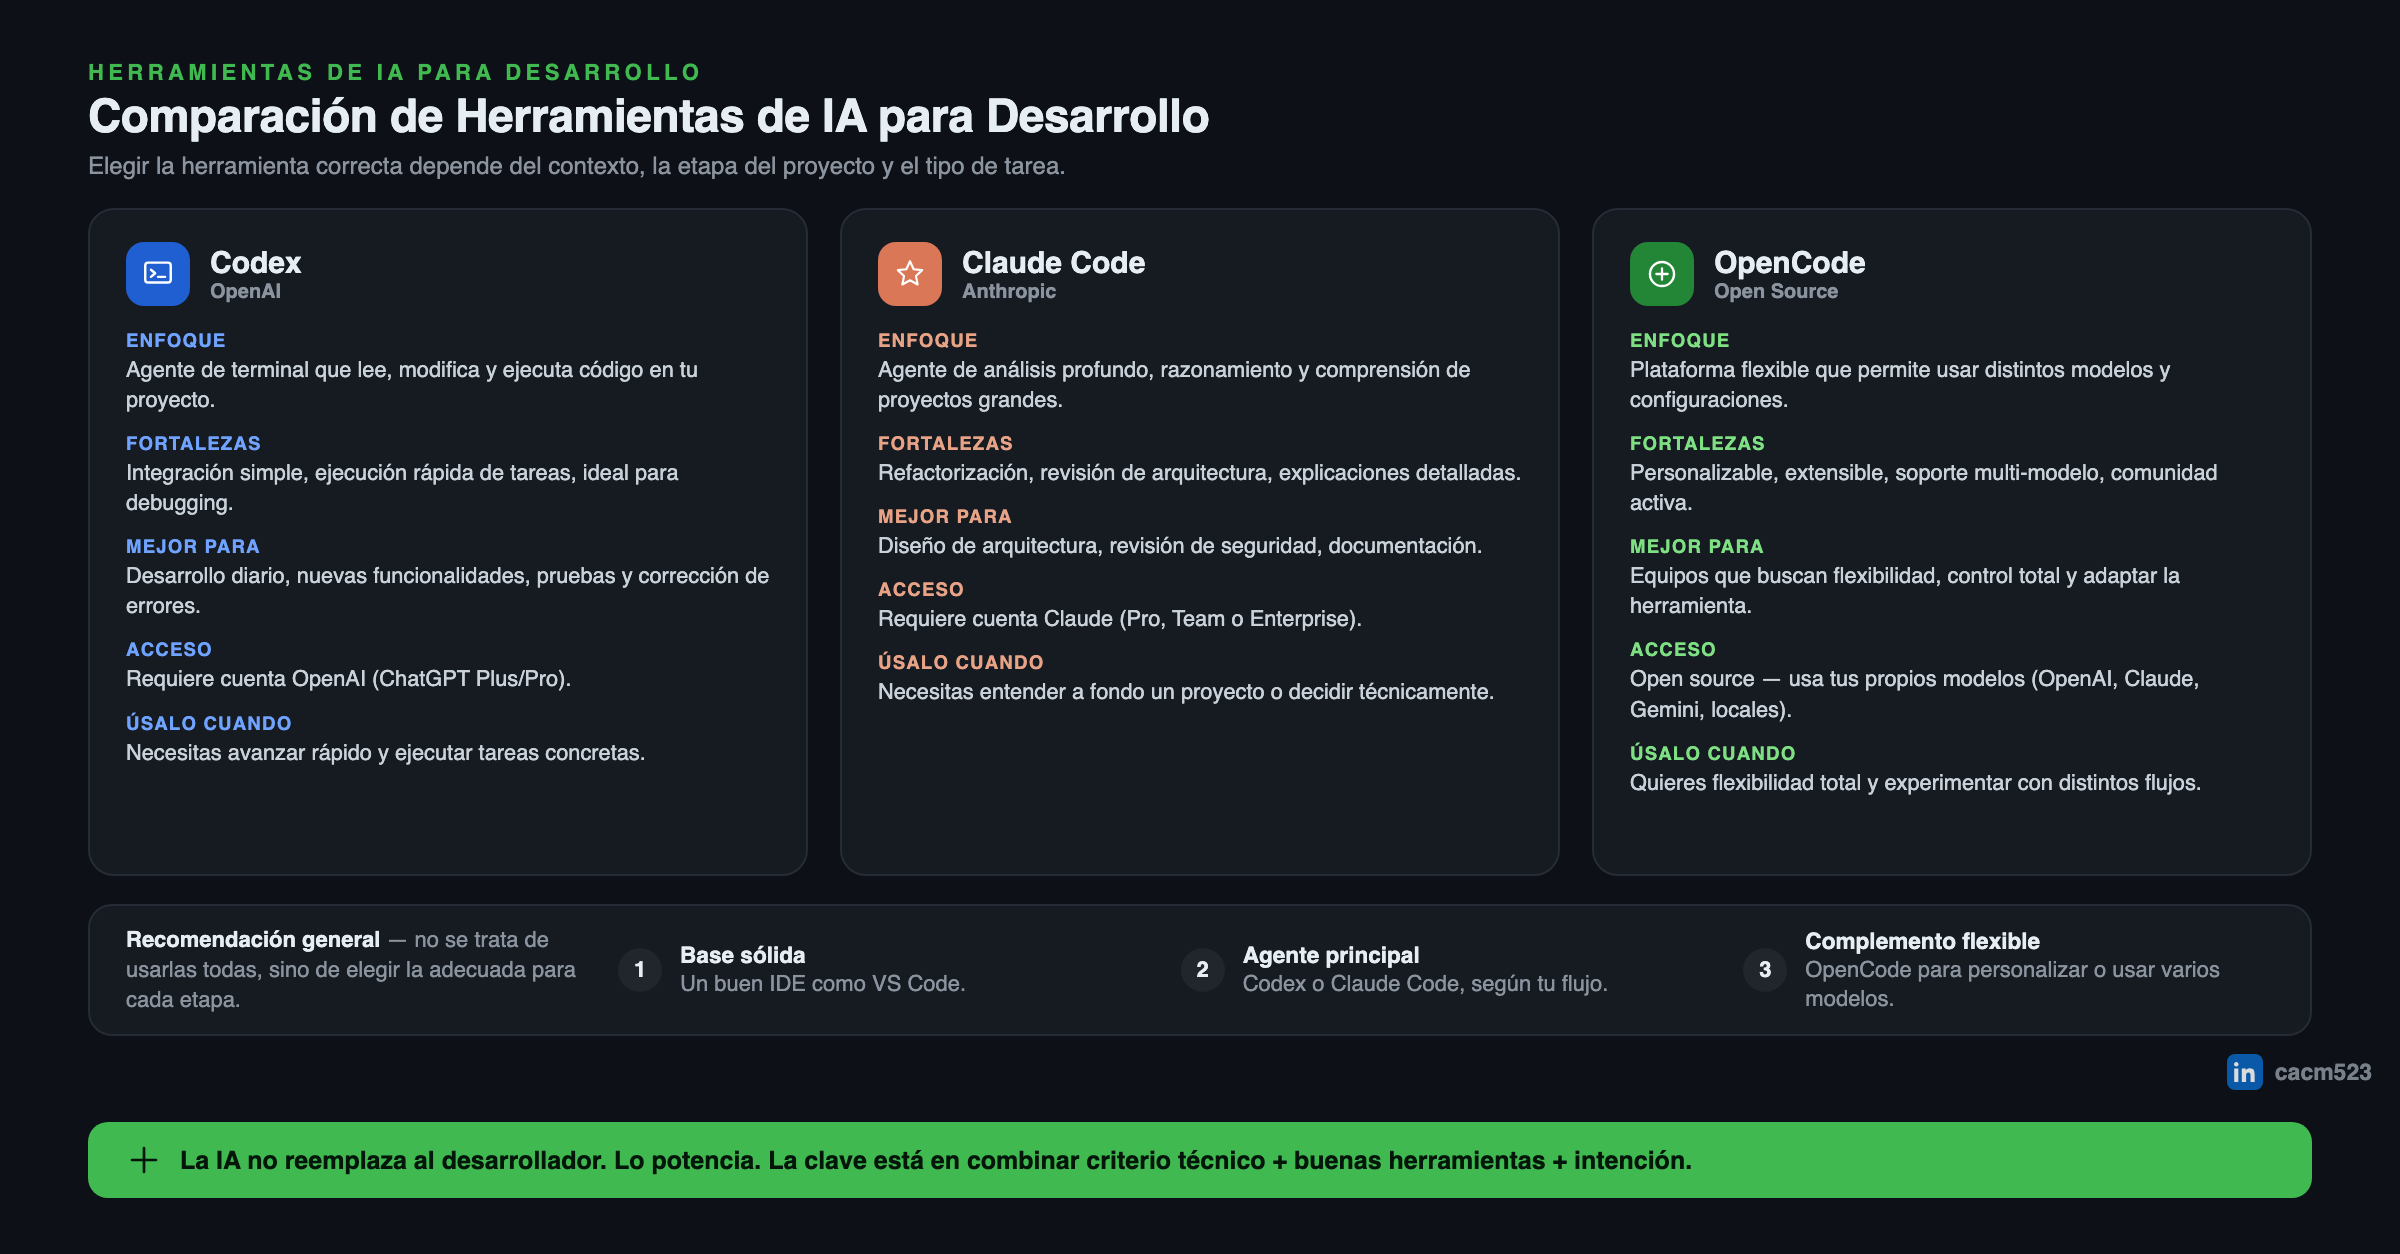
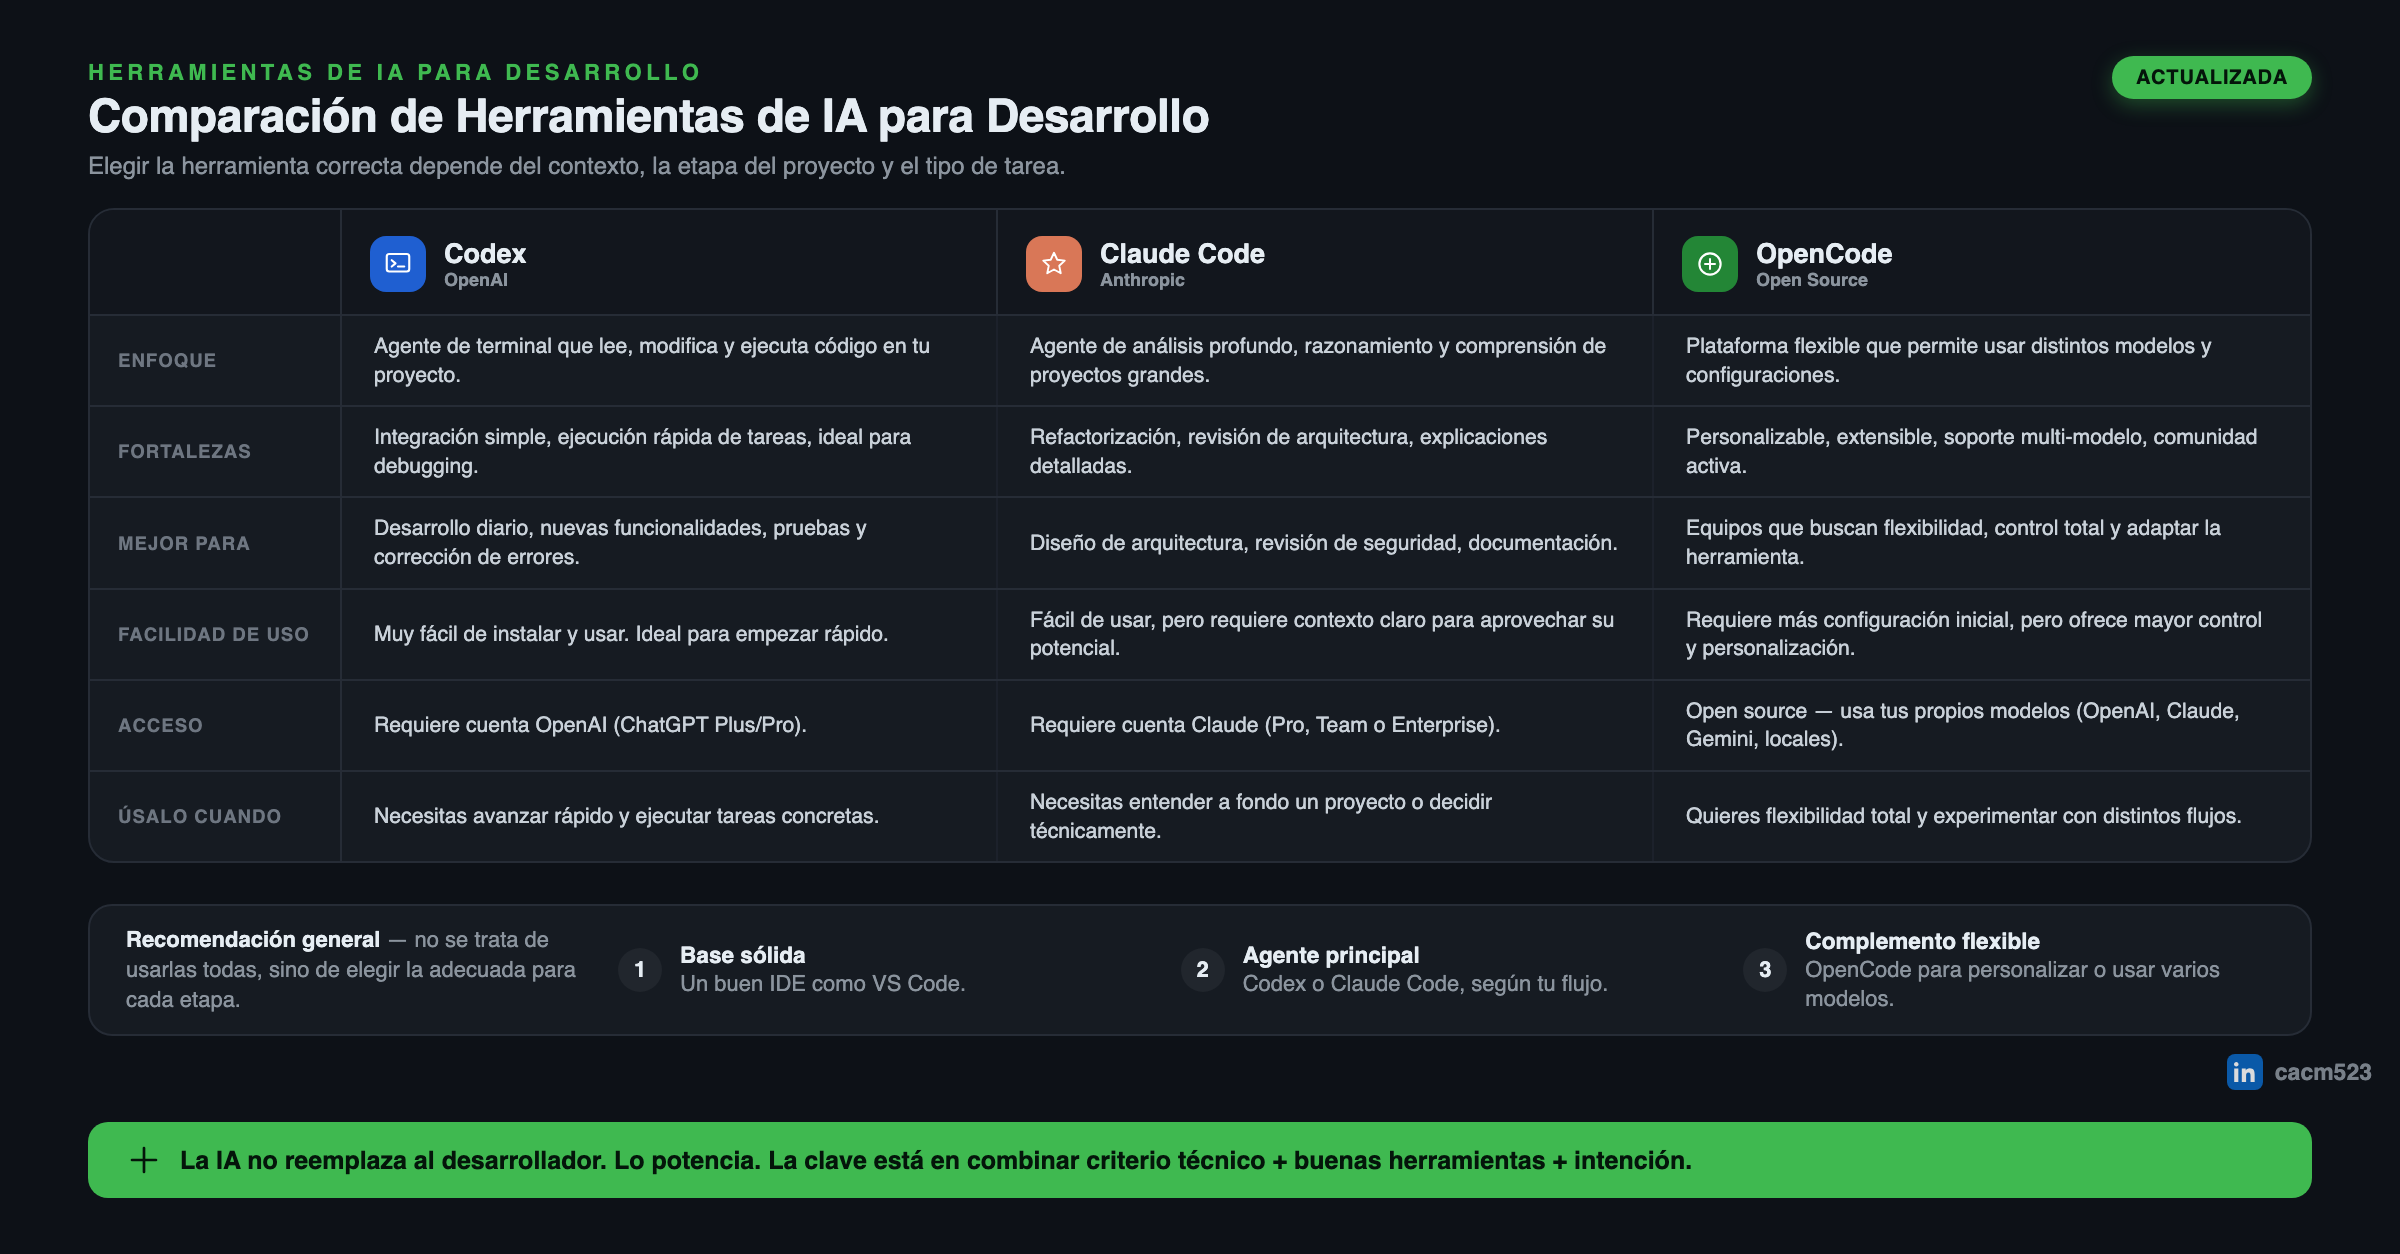
Reemplaza tarjetas repetidas por una matriz real en comparación de IA
Aplica la misma lógica usada en sql-joins: en vez de 3 tarjetas que
repetían las mismas 5 etiquetas (Enfoque, Fortalezas, Mejor para,
Acceso, Úsalo cuando) cada una, ahora es una única matriz con una
columna de etiquetas compartida y 3 columnas de datos (Codex, Claude
Code, OpenCode) — permite comparar un mismo aspecto de un vistazo en
vez de leer tarjeta por tarjeta.

De paso se restaura la fila "Facilidad de uso" que el prompt.md
original ya pedía (6 filas x 3 columnas) pero que la primera
construcción había omitido, dejando solo 5. Se agrega la insignia
"Actualizada" y se archiva la versión anterior en
Construidos/Comparacion_Herramientas_IA_Desarrollo/Archivadas/herramientas-desarrollo-ia-2026-07-21/.

Changed region(s): [[0.0312, 0.1866, 0.9375, 0.6531], [0.4375, 0.622, 0.625, 0.6842], [0.875, 0.0311, 0.9688, 0.0933]]

diff --git a/Construidos/Comparacion_Herramientas_IA_Desarrollo/Archivadas/herramientas-desarrollo-ia-2026-07-21/herramientas-desarrollo-ia.html b/Construidos/Comparacion_Herramientas_IA_Desarrollo/Archivadas/herramientas-desarrollo-ia-2026-07-21/herramientas-desarrollo-ia.html
@@ -1,0 +1,118 @@
+<!DOCTYPE html>
+<html lang="es">
+<head>
+<meta charset="UTF-8">
+<title>Comparación de Herramientas de IA para Desarrollo</title>
+<style>
+  * { margin:0; padding:0; box-sizing:border-box; }
+  body { width:1264px; height:691px; padding:32px; background:#05070A; font-family:-apple-system,"SF Pro Display","Segoe UI",Inter,Helvetica,Arial,sans-serif; }
+  .canvas { position:relative; width:1200px; height:627px; background:#0D1117; overflow:hidden; }
+
+  .eyebrow { position:absolute; top:30px; left:44px; font-size:11px; font-weight:700; letter-spacing:2.2px; color:#3FB950; text-transform:uppercase; }
+  .title { position:absolute; top:45px; left:44px; font-size:23px; font-weight:800; color:#E6EDF3; letter-spacing:-0.2px; }
+  .subtitle { position:absolute; top:76px; left:44px; width:1112px; font-size:12px; color:#8B949E; }
+
+  .cards { position:absolute; top:104px; left:44px; width:1112px; height:334px; display:flex; gap:16px; }
+  .card { flex:1; border-radius:13px; background:#161B22; border:1px solid #262C36; padding:16px 18px; display:flex; flex-direction:column; }
+  .chead { display:flex; align-items:center; gap:10px; }
+  .badge { width:32px; height:32px; border-radius:9px; display:flex; align-items:center; justify-content:center; flex-shrink:0; }
+  .badge svg { width:17px; height:17px; }
+  .cname { font-size:15px; font-weight:800; color:#E6EDF3; }
+  .cvendor { font-size:10px; color:#8B949E; font-weight:600; }
+
+  .rows { margin-top:12px; display:flex; flex-direction:column; gap:9px; }
+  .r .lbl { font-size:9.3px; font-weight:800; text-transform:uppercase; letter-spacing:0.6px; }
+  .r .val { margin-top:2px; font-size:10.9px; line-height:1.38; color:#C9D1D9; }
+
+  .reco { position:absolute; top:452px; left:44px; width:1112px; height:66px; border-radius:12px; background:#161B22; border:1px solid #262C36; display:flex; align-items:center; padding:0 18px; gap:16px; }
+  .reco-lead { width:230px; flex-shrink:0; font-size:11px; color:#8B949E; line-height:1.35; }
+  .reco-lead b { color:#E6EDF3; }
+  .reco-step { flex:1; display:flex; align-items:center; gap:9px; }
+  .reco-step .n { width:22px; height:22px; border-radius:50%; background:#21262D; color:#E6EDF3; font-size:11px; font-weight:800; display:flex; align-items:center; justify-content:center; flex-shrink:0; }
+  .reco-step .t { font-size:11px; line-height:1.3; }
+  .reco-step .t b { display:block; color:#E6EDF3; font-size:11.3px; }
+  .reco-step .t span { color:#8B949E; }
+
+  .closing { position:absolute; left:44px; right:44px; bottom:28px; background:#3FB950; border-radius:10px; padding:11px 20px; display:flex; align-items:center; gap:10px; }
+  .closing svg { width:16px; height:16px; flex-shrink:0; }
+  .closing p { color:#04150A; font-size:12.5px; font-weight:700; }
+
+  .signature { position:absolute; right:14px; bottom:82px; display:flex; align-items:center; gap:6px; opacity:0.85; }
+  .signature .li { width:18px; height:18px; border-radius:4px; background:#0A66C2; display:flex; align-items:center; justify-content:center; }
+  .signature .li svg { width:11px; height:11px; }
+  .signature span { font-size:11.5px; color:#8B949E; font-weight:600; }
+</style>
+</head>
+<body>
+<div class="canvas">
+
+  <div class="eyebrow">Herramientas de IA para Desarrollo</div>
+  <div class="title">Comparación de Herramientas de IA para Desarrollo</div>
+  <div class="subtitle">Elegir la herramienta correcta depende del contexto, la etapa del proyecto y el tipo de tarea.</div>
+
+  <div class="cards">
+
+    <div class="card">
+      <div class="chead">
+        <div class="badge" style="background:#1F5FD1;"><svg viewBox="0 0 24 24" fill="none"><rect x="3" y="4" width="18" height="14" rx="2" stroke="white" stroke-width="1.7"/><path d="M7 9l3 2.5L7 14M12 14h5" stroke="white" stroke-width="1.7" stroke-linecap="round" stroke-linejoin="round"/></svg></div>
+        <div><div class="cname">Codex</div><div class="cvendor">OpenAI</div></div>
+      </div>
+      <div class="rows">
+        <div class="r"><div class="lbl" style="color:#6FA3FF;">Enfoque</div><div class="val">Agente de terminal que lee, modifica y ejecuta código en tu proyecto.</div></div>
+        <div class="r"><div class="lbl" style="color:#6FA3FF;">Fortalezas</div><div class="val">Integración simple, ejecución rápida de tareas, ideal para debugging.</div></div>
+        <div class="r"><div class="lbl" style="color:#6FA3FF;">Mejor para</div><div class="val">Desarrollo diario, nuevas funcionalidades, pruebas y corrección de errores.</div></div>
+        <div class="r"><div class="lbl" style="color:#6FA3FF;">Acceso</div><div class="val">Requiere cuenta OpenAI (ChatGPT Plus/Pro).</div></div>
+        <div class="r"><div class="lbl" style="color:#6FA3FF;">Úsalo cuando</div><div class="val">Necesitas avanzar rápido y ejecutar tareas concretas.</div></div>
+      </div>
+    </div>
+
+    <div class="card">
+      <div class="chead">
+        <div class="badge" style="background:#D97757;"><svg viewBox="0 0 24 24" fill="none"><path d="M12 3l2.6 5.6 6 .7-4.4 4.1 1.2 6-5.4-3-5.4 3 1.2-6L3.4 9.3l6-.7L12 3z" stroke="white" stroke-width="1.5" stroke-linejoin="round"/></svg></div>
+        <div><div class="cname">Claude Code</div><div class="cvendor">Anthropic</div></div>
+      </div>
+      <div class="rows">
+        <div class="r"><div class="lbl" style="color:#E8A386;">Enfoque</div><div class="val">Agente de análisis profundo, razonamiento y comprensión de proyectos grandes.</div></div>
+        <div class="r"><div class="lbl" style="color:#E8A386;">Fortalezas</div><div class="val">Refactorización, revisión de arquitectura, explicaciones detalladas.</div></div>
+        <div class="r"><div class="lbl" style="color:#E8A386;">Mejor para</div><div class="val">Diseño de arquitectura, revisión de seguridad, documentación.</div></div>
+        <div class="r"><div class="lbl" style="color:#E8A386;">Acceso</div><div class="val">Requiere cuenta Claude (Pro, Team o Enterprise).</div></div>
+        <div class="r"><div class="lbl" style="color:#E8A386;">Úsalo cuando</div><div class="val">Necesitas entender a fondo un proyecto o decidir técnicamente.</div></div>
+      </div>
+    </div>
+
+    <div class="card">
+      <div class="chead">
+        <div class="badge" style="background:#238636;"><svg viewBox="0 0 24 24" fill="none"><circle cx="12" cy="12" r="8.5" stroke="white" stroke-width="1.7"/><path d="M8 12h8M12 8v8" stroke="white" stroke-width="1.6" stroke-linecap="round"/></svg></div>
+        <div><div class="cname">OpenCode</div><div class="cvendor">Open Source</div></div>
+      </div>
+      <div class="rows">
+        <div class="r"><div class="lbl" style="color:#7EE083;">Enfoque</div><div class="val">Plataforma flexible que permite usar distintos modelos y configuraciones.</div></div>
+        <div class="r"><div class="lbl" style="color:#7EE083;">Fortalezas</div><div class="val">Personalizable, extensible, soporte multi-modelo, comunidad activa.</div></div>
+        <div class="r"><div class="lbl" style="color:#7EE083;">Mejor para</div><div class="val">Equipos que buscan flexibilidad, control total y adaptar la herramienta.</div></div>
+        <div class="r"><div class="lbl" style="color:#7EE083;">Acceso</div><div class="val">Open source — usa tus propios modelos (OpenAI, Claude, Gemini, locales).</div></div>
+        <div class="r"><div class="lbl" style="color:#7EE083;">Úsalo cuando</div><div class="val">Quieres flexibilidad total y experimentar con distintos flujos.</div></div>
+      </div>
+    </div>
+
+  </div>
+
+  <div class="reco">
+    <div class="reco-lead"><b>Recomendación general</b> — no se trata de usarlas todas, sino de elegir la adecuada para cada etapa.</div>
+    <div class="reco-step"><div class="n">1</div><div class="t"><b>Base sólida</b><span>Un buen IDE como VS Code.</span></div></div>
+    <div class="reco-step"><div class="n">2</div><div class="t"><b>Agente principal</b><span>Codex o Claude Code, según tu flujo.</span></div></div>
+    <div class="reco-step"><div class="n">3</div><div class="t"><b>Complemento flexible</b><span>OpenCode para personalizar o usar varios modelos.</span></div></div>
+  </div>
+
+  <div class="closing">
+    <svg viewBox="0 0 24 24" fill="none"><path d="M12 3v18M3 12h18" stroke="#04150A" stroke-width="2" stroke-linecap="round"/></svg>
+    <p>La IA no reemplaza al desarrollador. Lo potencia. La clave está en combinar criterio técnico + buenas herramientas + intención.</p>
+  </div>
+
+  <div class="signature">
+    <div class="li"><svg viewBox="0 0 24 24" fill="white"><path d="M4.98 3.5C4.98 4.88 3.94 6 2.5 6S0 4.88 0 3.5 1.04 1 2.48 1s2.5 1.12 2.5 2.5zM.24 8.25h4.5V23H.24V8.25zM8.5 8.25h4.31v2.02h.06c.6-1.14 2.07-2.34 4.26-2.34 4.56 0 5.4 3 5.4 6.9V23h-4.5v-6.75c0-1.61-.03-3.68-2.24-3.68-2.25 0-2.6 1.75-2.6 3.56V23H8.5V8.25z"/></svg></div>
+    <span>cacm523</span>
+  </div>
+
+</div>
+</body>
+</html>

diff --git a/Construidos/Comparacion_Herramientas_IA_Desarrollo/herramientas-desarrollo-ia.html b/Construidos/Comparacion_Herramientas_IA_Desarrollo/herramientas-desarrollo-ia.html
@@ -8,21 +8,24 @@
   body { width:1264px; height:691px; padding:32px; background:#05070A; font-family:-apple-system,"SF Pro Display","Segoe UI",Inter,Helvetica,Arial,sans-serif; }
   .canvas { position:relative; width:1200px; height:627px; background:#0D1117; overflow:hidden; }
 
+  .updated-badge { position:absolute; top:28px; right:44px; background:#3FB950; color:#04150A; font-size:10px; font-weight:800; letter-spacing:.4px; text-transform:uppercase; padding:5px 12px; border-radius:20px; box-shadow:0 3px 10px rgba(63,185,80,0.35); }
   .eyebrow { position:absolute; top:30px; left:44px; font-size:11px; font-weight:700; letter-spacing:2.2px; color:#3FB950; text-transform:uppercase; }
   .title { position:absolute; top:45px; left:44px; font-size:23px; font-weight:800; color:#E6EDF3; letter-spacing:-0.2px; }
   .subtitle { position:absolute; top:76px; left:44px; width:1112px; font-size:12px; color:#8B949E; }
 
-  .cards { position:absolute; top:104px; left:44px; width:1112px; height:334px; display:flex; gap:16px; }
-  .card { flex:1; border-radius:13px; background:#161B22; border:1px solid #262C36; padding:16px 18px; display:flex; flex-direction:column; }
-  .chead { display:flex; align-items:center; gap:10px; }
-  .badge { width:32px; height:32px; border-radius:9px; display:flex; align-items:center; justify-content:center; flex-shrink:0; }
-  .badge svg { width:17px; height:17px; }
-  .cname { font-size:15px; font-weight:800; color:#E6EDF3; }
-  .cvendor { font-size:10px; color:#8B949E; font-weight:600; }
-
-  .rows { margin-top:12px; display:flex; flex-direction:column; gap:9px; }
-  .r .lbl { font-size:9.3px; font-weight:800; text-transform:uppercase; letter-spacing:0.6px; }
-  .r .val { margin-top:2px; font-size:10.9px; line-height:1.38; color:#C9D1D9; }
+  .matrix { position:absolute; top:104px; left:44px; width:1112px; border-radius:13px; background:#161B22; border:1px solid #262C36; overflow:hidden; }
+  .mrow { display:grid; grid-template-columns: 126px repeat(3,1fr); }
+  .mrow + .mrow { border-top:1px solid #262C36; }
+  .mrow.mhead { background:#12161D; }
+  .mlabel { padding:8px 14px; display:flex; align-items:center; font-size:9.3px; font-weight:800; text-transform:uppercase; letter-spacing:0.5px; color:#6E7681; border-right:1px solid #262C36; }
+  .mcell { padding:8px 16px; display:flex; align-items:center; font-size:10.6px; line-height:1.35; color:#C9D1D9; border-right:1px solid #1c212b; }
+  .mcell:last-child { border-right:none; }
+  .mhead-cell { padding:13px 14px 11px; display:flex; align-items:center; gap:9px; border-right:1px solid #262C36; }
+  .mhead-cell:last-child { border-right:none; }
+  .micon { width:28px; height:28px; border-radius:8px; display:flex; align-items:center; justify-content:center; flex-shrink:0; }
+  .micon svg { width:15px; height:15px; }
+  .mname { font-size:13.5px; font-weight:800; color:#E6EDF3; }
+  .mvendor { font-size:9px; color:#8B949E; font-weight:600; }
 
   .reco { position:absolute; top:452px; left:44px; width:1112px; height:66px; border-radius:12px; background:#161B22; border:1px solid #262C36; display:flex; align-items:center; padding:0 18px; gap:16px; }
   .reco-lead { width:230px; flex-shrink:0; font-size:11px; color:#8B949E; line-height:1.35; }
@@ -46,52 +49,69 @@
 <body>
 <div class="canvas">
 
+  <span class="updated-badge">Actualizada</span>
   <div class="eyebrow">Herramientas de IA para Desarrollo</div>
   <div class="title">Comparación de Herramientas de IA para Desarrollo</div>
   <div class="subtitle">Elegir la herramienta correcta depende del contexto, la etapa del proyecto y el tipo de tarea.</div>
 
-  <div class="cards">
+  <div class="matrix">
 
-    <div class="card">
-      <div class="chead">
-        <div class="badge" style="background:#1F5FD1;"><svg viewBox="0 0 24 24" fill="none"><rect x="3" y="4" width="18" height="14" rx="2" stroke="white" stroke-width="1.7"/><path d="M7 9l3 2.5L7 14M12 14h5" stroke="white" stroke-width="1.7" stroke-linecap="round" stroke-linejoin="round"/></svg></div>
-        <div><div class="cname">Codex</div><div class="cvendor">OpenAI</div></div>
+    <div class="mrow mhead">
+      <div class="mlabel"></div>
+      <div class="mhead-cell">
+        <div class="micon" style="background:#1F5FD1;"><svg viewBox="0 0 24 24" fill="none"><rect x="3" y="4" width="18" height="14" rx="2" stroke="white" stroke-width="1.7"/><path d="M7 9l3 2.5L7 14M12 14h5" stroke="white" stroke-width="1.7" stroke-linecap="round" stroke-linejoin="round"/></svg></div>
+        <div><div class="mname">Codex</div><div class="mvendor">OpenAI</div></div>
       </div>
-      <div class="rows">
-        <div class="r"><div class="lbl" style="color:#6FA3FF;">Enfoque</div><div class="val">Agente de terminal que lee, modifica y ejecuta código en tu proyecto.</div></div>
-        <div class="r"><div class="lbl" style="color:#6FA3FF;">Fortalezas</div><div class="val">Integración simple, ejecución rápida de tareas, ideal para debugging.</div></div>
-        <div class="r"><div class="lbl" style="color:#6FA3FF;">Mejor para</div><div class="val">Desarrollo diario, nuevas funcionalidades, pruebas y corrección de errores.</div></div>
-        <div class="r"><div class="lbl" style="color:#6FA3FF;">Acceso</div><div class="val">Requiere cuenta OpenAI (ChatGPT Plus/Pro).</div></div>
-        <div class="r"><div class="lbl" style="color:#6FA3FF;">Úsalo cuando</div><div class="val">Necesitas avanzar rápido y ejecutar tareas concretas.</div></div>
+      <div class="mhead-cell">
+        <div class="micon" style="background:#D97757;"><svg viewBox="0 0 24 24" fill="none"><path d="M12 3l2.6 5.6 6 .7-4.4 4.1 1.2 6-5.4-3-5.4 3 1.2-6L3.4 9.3l6-.7L12 3z" stroke="white" stroke-width="1.5" stroke-linejoin="round"/></svg></div>
+        <div><div class="mname">Claude Code</div><div class="mvendor">Anthropic</div></div>
+      </div>
+      <div class="mhead-cell">
+        <div class="micon" style="background:#238636;"><svg viewBox="0 0 24 24" fill="none"><circle cx="12" cy="12" r="8.5" stroke="white" stroke-width="1.7"/><path d="M8 12h8M12 8v8" stroke="white" stroke-width="1.6" stroke-linecap="round"/></svg></div>
+        <div><div class="mname">OpenCode</div><div class="mvendor">Open Source</div></div>
       </div>
     </div>
 
-    <div class="card">
-      <div class="chead">
-        <div class="badge" style="background:#D97757;"><svg viewBox="0 0 24 24" fill="none"><path d="M12 3l2.6 5.6 6 .7-4.4 4.1 1.2 6-5.4-3-5.4 3 1.2-6L3.4 9.3l6-.7L12 3z" stroke="white" stroke-width="1.5" stroke-linejoin="round"/></svg></div>
-        <div><div class="cname">Claude Code</div><div class="cvendor">Anthropic</div></div>
-      </div>
-      <div class="rows">
-        <div class="r"><div class="lbl" style="color:#E8A386;">Enfoque</div><div class="val">Agente de análisis profundo, razonamiento y comprensión de proyectos grandes.</div></div>
-        <div class="r"><div class="lbl" style="color:#E8A386;">Fortalezas</div><div class="val">Refactorización, revisión de arquitectura, explicaciones detalladas.</div></div>
-        <div class="r"><div class="lbl" style="color:#E8A386;">Mejor para</div><div class="val">Diseño de arquitectura, revisión de seguridad, documentación.</div></div>
-        <div class="r"><div class="lbl" style="color:#E8A386;">Acceso</div><div class="val">Requiere cuenta Claude (Pro, Team o Enterprise).</div></div>
-        <div class="r"><div class="lbl" style="color:#E8A386;">Úsalo cuando</div><div class="val">Necesitas entender a fondo un proyecto o decidir técnicamente.</div></div>
-      </div>
+    <div class="mrow">
+      <div class="mlabel">Enfoque</div>
+      <div class="mcell">Agente de terminal que lee, modifica y ejecuta código en tu proyecto.</div>
+      <div class="mcell">Agente de análisis profundo, razonamiento y comprensión de proyectos grandes.</div>
+      <div class="mcell">Plataforma flexible que permite usar distintos modelos y configuraciones.</div>
     </div>
 
-    <div class="card">
-      <div class="chead">
-        <div class="badge" style="background:#238636;"><svg viewBox="0 0 24 24" fill="none"><circle cx="12" cy="12" r="8.5" stroke="white" stroke-width="1.7"/><path d="M8 12h8M12 8v8" stroke="white" stroke-width="1.6" stroke-linecap="round"/></svg></div>
-        <div><div class="cname">OpenCode</div><div class="cvendor">Open Source</div></div>
-      </div>
-      <div class="rows">
-        <div class="r"><div class="lbl" style="color:#7EE083;">Enfoque</div><div class="val">Plataforma flexible que permite usar distintos modelos y configuraciones.</div></div>
-        <div class="r"><div class="lbl" style="color:#7EE083;">Fortalezas</div><div class="val">Personalizable, extensible, soporte multi-modelo, comunidad activa.</div></div>
-        <div class="r"><div class="lbl" style="color:#7EE083;">Mejor para</div><div class="val">Equipos que buscan flexibilidad, control total y adaptar la herramienta.</div></div>
-        <div class="r"><div class="lbl" style="color:#7EE083;">Acceso</div><div class="val">Open source — usa tus propios modelos (OpenAI, Claude, Gemini, locales).</div></div>
-        <div class="r"><div class="lbl" style="color:#7EE083;">Úsalo cuando</div><div class="val">Quieres flexibilidad total y experimentar con distintos flujos.</div></div>
-      </div>
+    <div class="mrow">
+      <div class="mlabel">Fortalezas</div>
+      <div class="mcell">Integración simple, ejecución rápida de tareas, ideal para debugging.</div>
+      <div class="mcell">Refactorización, revisión de arquitectura, explicaciones detalladas.</div>
+      <div class="mcell">Personalizable, extensible, soporte multi-modelo, comunidad activa.</div>
+    </div>
+
+    <div class="mrow">
+      <div class="mlabel">Mejor para</div>
+      <div class="mcell">Desarrollo diario, nuevas funcionalidades, pruebas y corrección de errores.</div>
+      <div class="mcell">Diseño de arquitectura, revisión de seguridad, documentación.</div>
+      <div class="mcell">Equipos que buscan flexibilidad, control total y adaptar la herramienta.</div>
+    </div>
+
+    <div class="mrow">
+      <div class="mlabel">Facilidad de uso</div>
+      <div class="mcell">Muy fácil de instalar y usar. Ideal para empezar rápido.</div>
+      <div class="mcell">Fácil de usar, pero requiere contexto claro para aprovechar su potencial.</div>
+      <div class="mcell">Requiere más configuración inicial, pero ofrece mayor control y personalización.</div>
+    </div>
+
+    <div class="mrow">
+      <div class="mlabel">Acceso</div>
+      <div class="mcell">Requiere cuenta OpenAI (ChatGPT Plus/Pro).</div>
+      <div class="mcell">Requiere cuenta Claude (Pro, Team o Enterprise).</div>
+      <div class="mcell">Open source — usa tus propios modelos (OpenAI, Claude, Gemini, locales).</div>
+    </div>
+
+    <div class="mrow">
+      <div class="mlabel">Úsalo cuando</div>
+      <div class="mcell">Necesitas avanzar rápido y ejecutar tareas concretas.</div>
+      <div class="mcell">Necesitas entender a fondo un proyecto o decidir técnicamente.</div>
+      <div class="mcell">Quieres flexibilidad total y experimentar con distintos flujos.</div>
     </div>
 
   </div>